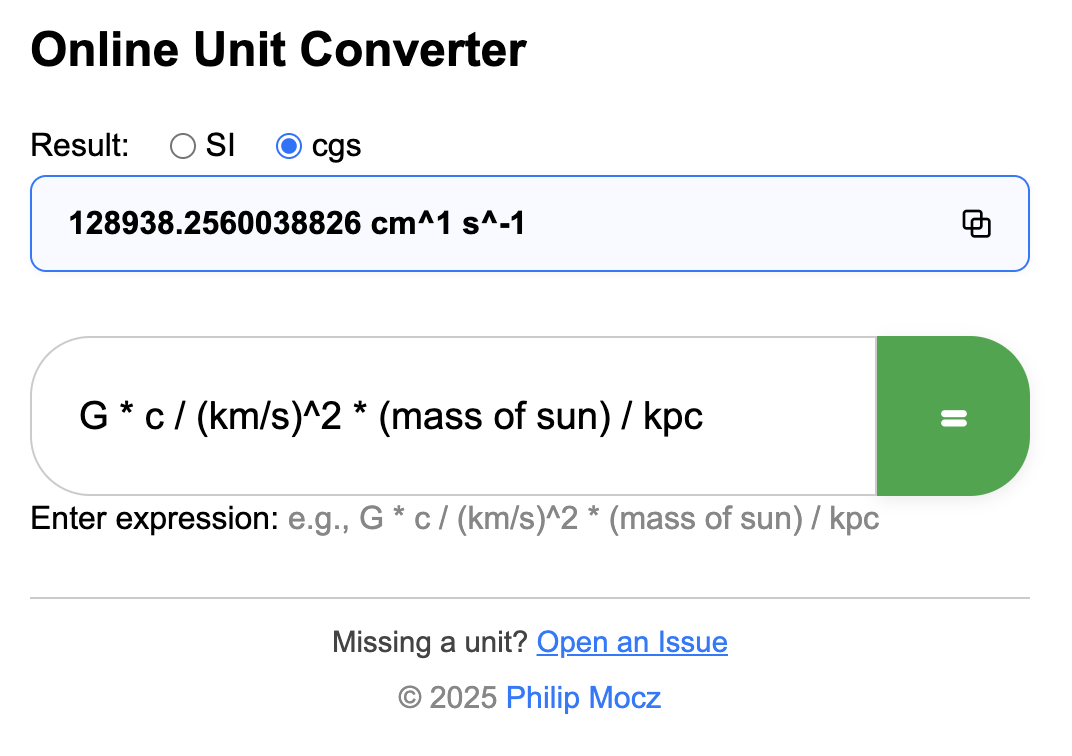
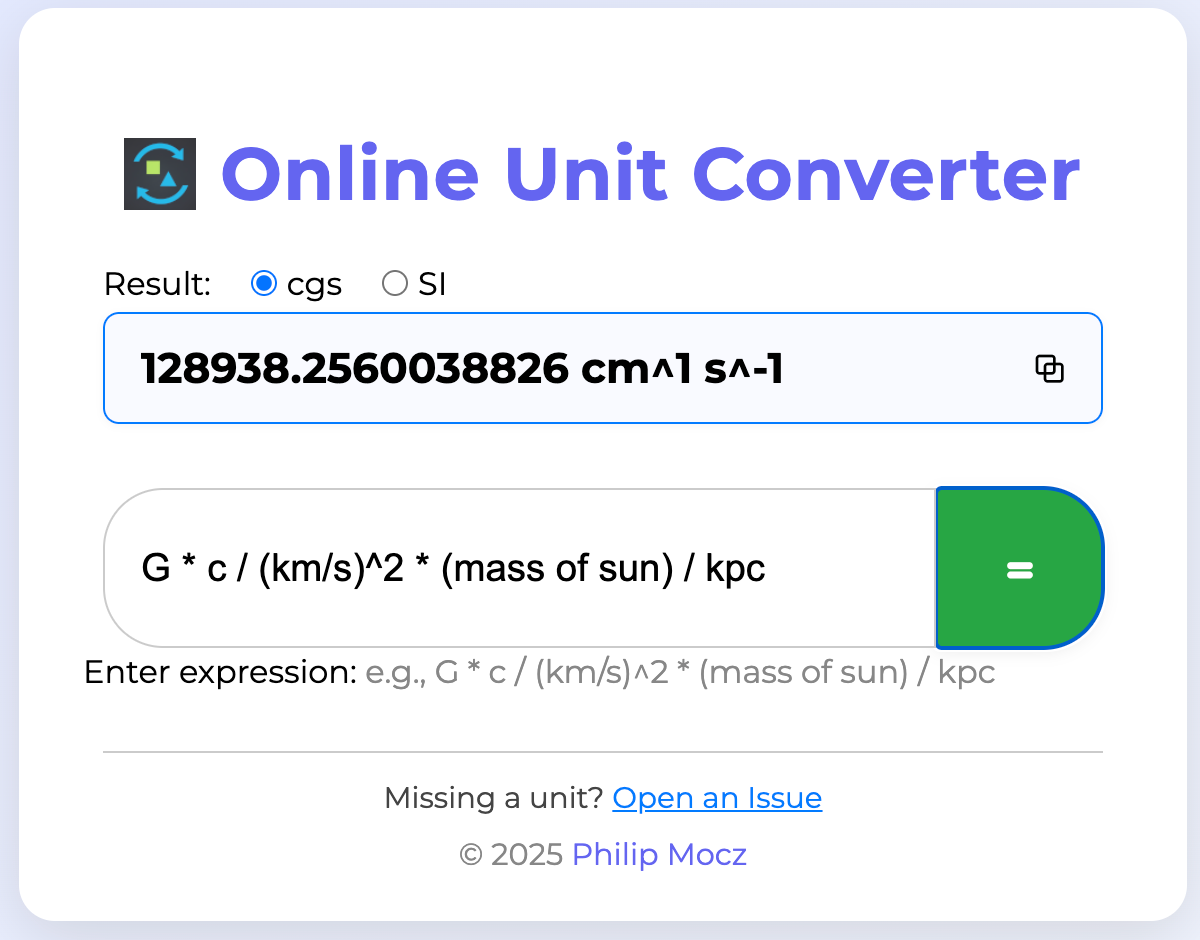
make ui more snazzy

Changed region(s): [[0.0, 0.0, 1.0, 1.0], [0.0616, 0.5172, 0.6772, 0.6389], [0.0924, 0.791, 0.9235, 0.9431]]

diff --git a/index.html b/index.html
@@ -13,6 +13,7 @@
         <meta charset="UTF-8">
         <title>Online Unit Converter | Fast Scientific Unit Conversion Tool</title>
         <link rel="icon" type="image/png" href="icon.png">
+        <link href="https://fonts.googleapis.com/css2?family=Montserrat:wght@400;700&display=swap" rel="stylesheet">
         <meta name="description" content="Convert scientific units instantly online. Supports cgs, SI, and custom expressions. Powered by Astropy and Pyodide.">
         <meta name="keywords" content="unit converter, scientific units, cgs, SI, online calculator, astropy, pyodide, physics, math, conversion">
         <meta name="viewport" content="width=device-width, initial-scale=1">
@@ -41,9 +42,78 @@
         </script>
         <script src="https://cdn.jsdelivr.net/pyodide/v0.25.0/full/pyodide.js"></script>
     <style>
-        body { font-family: Arial, sans-serif; margin: 40px; }
-        .container { max-width: 500px; margin: auto; }
-        input, select, button { font-size: 1em; margin: 8px 0; padding: 8px; width: 100%; }
+        body {
+            font-family: 'Montserrat', Arial, sans-serif;
+            margin: 0;
+            min-height: 100vh;
+            background: linear-gradient(135deg, #e0e7ff 0%, #f8fafc 100%);
+        }
+        .container {
+            max-width: 520px;
+            margin: 48px auto 0 auto;
+            background: #fff;
+            border-radius: 18px;
+            box-shadow: 0 8px 32px rgba(0,0,0,0.12);
+            padding: 36px 32px 24px 32px;
+        }
+        input, select, button {
+            font-size: 1em;
+            margin: 8px 0;
+            padding: 12px;
+            width: 100%;
+            border-radius: 8px;
+            border: 1px solid #d1d5db;
+            transition: box-shadow 0.2s, border-color 0.2s;
+        }
+        input:focus {
+            outline: none;
+            border-color: #6366f1;
+            box-shadow: 0 0 0 2px #6366f133;
+        }
+        .convert-btn-green {
+            background: linear-gradient(90deg, #28a745 60%, #34d399 100%) !important;
+            box-shadow: 0 2px 8px rgba(40,167,69,0.08);
+        }
+        .convert-btn-blue {
+            background: linear-gradient(90deg, #6366f1 60%, #3b82f6 100%) !important;
+            box-shadow: 0 2px 8px rgba(59,130,246,0.08);
+        }
+        .convert-btn-blue:hover, .convert-btn-green:hover {
+            filter: brightness(1.08);
+            box-shadow: 0 4px 16px rgba(59,130,246,0.12);
+        }
+        .result {
+            margin-top: 20px;
+            font-weight: bold;
+            font-size: 1.15em;
+        }
+        .error { color: red; margin-top: 20px; }
+        #result-box {
+            animation: popResult 0.5s;
+        }
+        @keyframes popResult {
+            0% { transform: scale(0.95); opacity: 0.5; }
+            60% { transform: scale(1.05); opacity: 1; }
+            100% { transform: scale(1); opacity: 1; }
+        }
+        h1 {
+            font-family: 'Montserrat', Arial, sans-serif;
+            font-size: 2.3em;
+            font-weight: 700;
+            letter-spacing: 0.5px;
+            margin-bottom: 18px;
+            text-align: center;
+            color: #6366f1;
+            display: flex;
+            align-items: center;
+            justify-content: center;
+            gap: 12px;
+        }
+        .logo {
+            width: 36px;
+            height: 36px;
+            vertical-align: middle;
+        }
         .convert-btn-green {
             background: #28a745 !important;
         }
@@ -113,7 +183,7 @@
 </head>
 <body>
     <main class="container">
-        <h1>Online Unit Converter</h1>
+        <h1><img src="icon.png" alt="Logo" class="logo"> Online Unit Converter</h1>
         <div style="display: flex; align-items: center; margin-bottom: 4px; font-weight: 500; max-width: 500px; margin: 0 auto; gap: 20px;">
             <span>Result:</span>
             <div id="unit-systems" style="display: flex; gap: 20px;">
@@ -128,7 +198,7 @@
             </div>
         </div>
         <div class="result" id="result-box" onclick="copyResultBox()" title="Click to copy" style="display: flex; align-items: center; gap: 10px; border: 1px solid #007bff; border-radius: 8px; background: #f8faff; padding: 14px 18px; cursor: pointer; user-select: all; box-shadow: 0 1px 4px rgba(0,0,0,0.04); max-width: 500px; margin: 0 auto; box-sizing: border-box;">
-            <span style="flex: 1;" id="pyodide-result" aria-live="polite"></span>
+            <span style="flex: 1; font-size: 1.15em; color: #222;" id="pyodide-result" aria-live="polite"></span>
             <svg id="copy-icon" xmlns="http://www.w3.org/2000/svg" width="16" height="16" fill="none" viewBox="0 0 24 24" stroke="currentColor" style="vertical-align: middle;" aria-label="Copy result"><rect x="9" y="9" width="13" height="13" rx="2" stroke-width="2"/><rect x="3" y="3" width="13" height="13" rx="2" stroke-width="2"/></svg>
         </div>
         <div style="margin-top: 24px;"></div>
@@ -452,7 +522,7 @@ result
     <span style="font-size:0.92em; color:#444;">Missing a unit? </span><a href="https://github.com/pmocz/online-unit-converter/issues" target="_blank" style="color:#007bff; font-size:0.92em; text-decoration:underline;">Open an Issue</a>
     </div>
     <footer style="text-align:center; margin-top:10px; color:#888; font-size:0.95em;">
-        &copy; 2025 <a href="https://github.com/pmocz" target="_blank" style="color:#007bff; text-decoration:none;">Philip Mocz</a>
+    &copy; 2025 <a href="https://github.com/pmocz" target="_blank" style="color:#6366f1; text-decoration:none; font-weight:500;">Philip Mocz</a>
     </footer>
     </main>
 </body>
